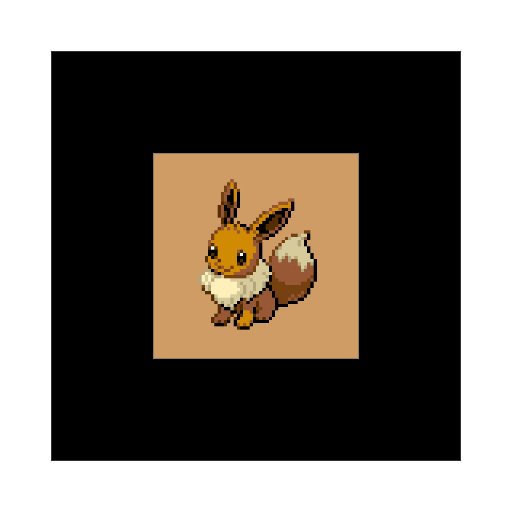
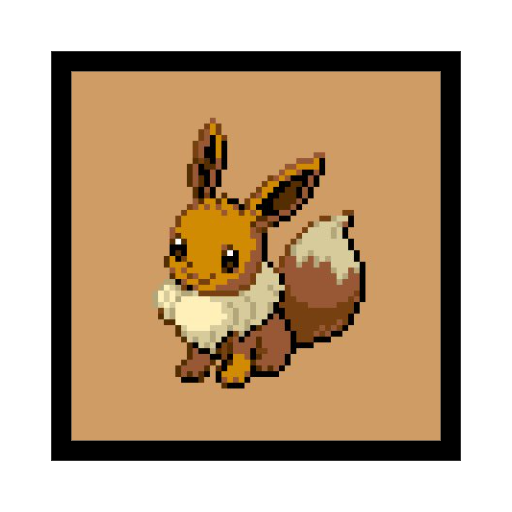
モデルの変更

diff --git a/index.html b/index.html
@@ -29,7 +29,7 @@
       vr-mode-ui="enabled: false;"
       renderer="logarithmicDepthBuffer: true;"
       embedded
-      arjs="trackingMethod: best; sourceType: webcam;debugUIEnabled: false;">
+      arjs="trackingMethod: best; sourceType: webcam;debugUIEnabled: false; patternRatio = 0.90">
 
       <a-assets>
         <a-asset-item id="cooler" src="pokemon.gltf"></a-asset-item>
